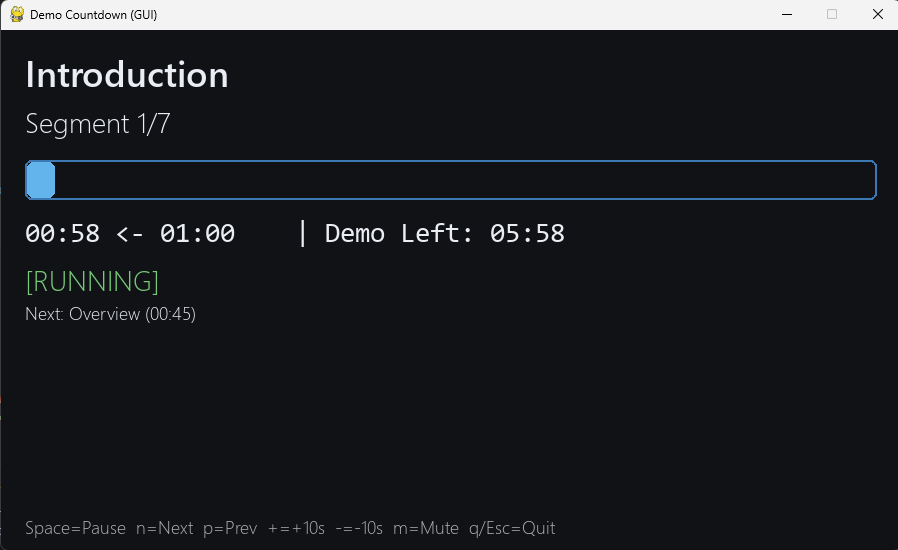
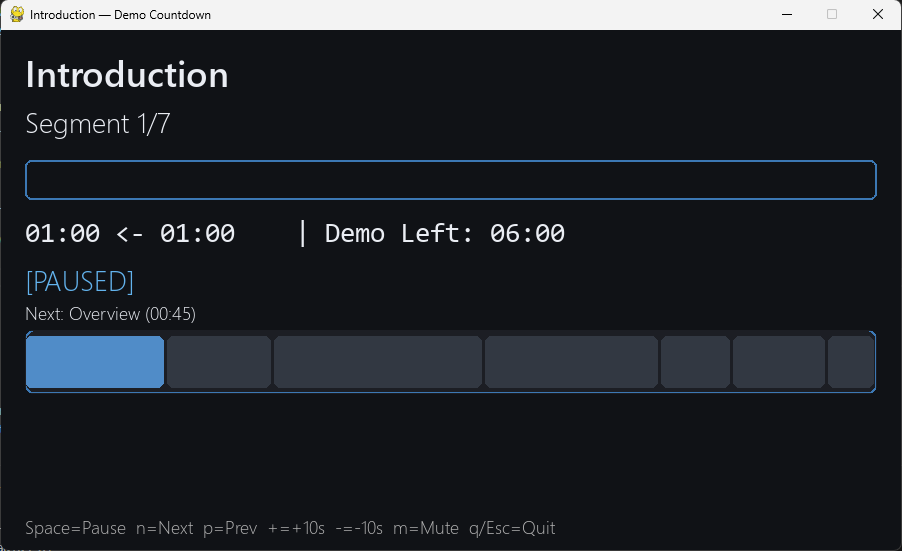
Add elapsed time tracking and summary display in GUI

diff --git a/main-gui.py b/main-gui.py
@@ -196,6 +196,11 @@ def run_gui():
     TIMELINE_SCROLL_SMOOTH = 0.15
     timeline_scroll_x = 0.0
 
+    # Elapsed (including pauses) tracking
+    demo_started = False
+    demo_start_ts = 0.0
+    demo_end_ts = 0.0
+
     # Set initial caption to segment name if available
     if total_segments > 0:
         try:
@@ -220,6 +225,10 @@ def run_gui():
                 elif key == pygame.K_SPACE:
                     if total_segments > 0 and time.time() >= completed_until:
                         paused = not paused
+                        # On first start (resume), arm the elapsed timer
+                        if not paused and not demo_started:
+                            demo_started = True
+                            demo_start_ts = time.time()
                 elif key in (pygame.K_n,):
                     # Next segment: mark completed then advance after short delay
                     if i < total_segments:
@@ -272,6 +281,12 @@ def run_gui():
             if i >= total_segments:
                 # Finished all
                 i = total_segments
+                if demo_end_ts == 0.0 and demo_started:
+                    demo_end_ts = now_ts
+                try:
+                    pygame.display.set_caption("Summary — Demo Countdown")
+                except Exception:
+                    pass
             else:
                 duration = float(SEGMENTS[i][1])
                 remaining = duration
@@ -294,10 +309,19 @@ def run_gui():
 
         # All completed?
         if i >= total_segments:
-            # Done screen
-            done_msg = "All segments finished. Good show!"
-            draw_text(screen, done_msg, h2_font, OK, (24, 80))
-            draw_text(screen, "Press Q or Esc to quit", small_font, FG, (24, 120))
+            # Summary screen
+            draw_text(screen, "Summary", title_font, OK, (24, 18))
+            planned_total = sum(d for _, d in SEGMENTS)
+            final_elapsed = max(0.0, ((demo_end_ts or now) - demo_start_ts)) if demo_started else 0.0
+            delta_secs = final_elapsed - planned_total
+            delta_color = WARN if delta_secs > 0 else (OK if delta_secs < 0 else FG)
+
+            draw_text(screen, f"Segments: {total_segments}", h2_font, FG, (24, 72))
+            draw_text(screen, f"Planned total: {format_time(planned_total)}", h2_font, FG, (24, 110))
+            draw_text(screen, f"Elapsed total: {format_time(final_elapsed)}", h2_font, FG, (24, 148))
+            sign = "+" if delta_secs > 0 else ("" if delta_secs == 0 else "-")
+            draw_text(screen, f"Delta: {sign}{format_time(abs(delta_secs))}", h2_font, delta_color, (24, 186))
+            draw_text(screen, "Press Q or Esc to quit", small_font, FG, (24, 230))
             pygame.display.flip()
             clock.tick(30)
             continue
@@ -316,7 +340,12 @@ def run_gui():
 
         # Times and status
         total_left = total_demo_left_secs(i, remaining)
-        times_line = f"{format_time(remaining)} <- {format_time(duration)}    | Demo Left: {format_time(total_left)}"
+        # Elapsed time including pauses (wall clock since first start)
+        elapsed_secs = max(0.0, ((demo_end_ts or now) - demo_start_ts)) if demo_started else 0.0
+        times_line = (
+            f"{format_time(remaining)} <- {format_time(duration)}    | "
+            f"Demo Left: {format_time(total_left)}    | Elapsed: {format_time(elapsed_secs)}"
+        )
         draw_text(screen, times_line, mono_font, FG, (24, 190))
 
         status_color = OK if status == "RUNNING" else (WARN if status == "COMPLETED" else ACCENT)
